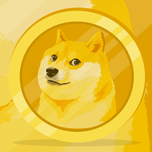
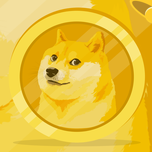
Add moon

Changed region(s): [[0.8421, 0.0, 1.0, 0.1579]]

diff --git a/_site/howtorun.html b/_site/howtorun.html
@@ -25,13 +25,24 @@
   <link href='https://fonts.googleapis.com/css?family=Open+Sans:400,700' rel='stylesheet' type='text/css'>
   <link rel="stylesheet" href="/assets/css/style.css?v=">
   <link rel="apple-touch-icon-precomposed" href="152.png">
+    <!-- Global site tag (gtag.js) - Google Analytics -->
+  
+  <script async src="https://www.googletagmanager.com/gtag/js?id=G-CPMKD94RX9"></script>
+  <script>
+    window.dataLayer = window.dataLayer || [];
+    function gtag(){dataLayer.push(arguments);}
+    gtag('js', new Date());
+
+    gtag('config', 'G-CPMKD94RX9');
+  </script>
+
   <script src="https://cdnjs.cloudflare.com/ajax/libs/jquery/3.5.1/jquery.min.js"></script>
   <script type="text/javascript">
 
     var TOTALDOGE = 1
     var CURRENCY = "USD";
     var UNIT = "$";
-    var DOGEPRICE = 0.0
+    var DOGEPRICE = 0
     var CURRENTLIST = ["USD","EUR","GBP","KRW","CNY","JPY"]
     var CURRENCYUNIT = ["$","€","£","₩","¥","¥"]
     //https://api.coingecko.com/api/v3/simple/supported_vs_currencies
@@ -62,7 +73,7 @@
 
 
     $("#selectList").change( function() {
-      var promptForDoge = prompt("How much Dogecoin?", "1");
+      var promptForDoge = prompt("How much Dogecoin?", TOTALDOGE);
 
       if ( promptForDoge == null ||  promptForDoge == "") {
         txt = "User cancelled the prompt.";
@@ -254,7 +265,7 @@ body {margin:0;padding:0;}
       <a href="/" >
      <img src="/assets/img/dogebell-title.png" width="70%" height="50%" style="max-width: 500px;">
       </a>
-     <br>
+
      <h3><span id="dogeCount">1</span> Dogecoin = <span id="unit">$</span> <span id="dogePrice"></span> </h3> 
      <br>
     
@@ -266,8 +277,6 @@ body {margin:0;padding:0;}
      <br>
 
    </div>
-
-
 
    <div class="box">
     <div class="dojichart" id="my-dojichart">
@@ -292,25 +301,17 @@ body {margin:0;padding:0;}
 
     <div>
       <span style="">Donate Doge : </span>
-      <a href="https://dogechain.info/address/DN7WNoyLx6DRoQpuzpcLhV95vLARFdbZ9A" >
+      <a href="https://dogechain.info/address/DN7WNoyLx6DRoQpuzpcLhV95vLARFdbZ9A" target='_blank' >
         <img style="vertical-align:middle" src="/assets/img/dogeaccept.png" width="80px" height="auto">
       </a>
-    </div>
-
-<!--     <div>
-      <span style="">Buy Doge : </span>
-      <a href="https://www.paypal.me/dogebell">
-        <img style="vertical-align:middle" src="/assets/img/paypal.png" width="80px" height="auto">
+      <a href="https://www.paypal.me/dogebell" target='_blank'>
+        <img style="vertical-align:middle" src="/assets/img/paypal.png" width="70px" height="auto">
       </a>
-    </div> -->
+    </div>
 
   </center>
 
 </footer>
-
-
-
-
 
 </body>
 </html>

diff --git a/_site/index.html b/_site/index.html
@@ -25,13 +25,24 @@
   <link href='https://fonts.googleapis.com/css?family=Open+Sans:400,700' rel='stylesheet' type='text/css'>
   <link rel="stylesheet" href="/assets/css/style.css?v=">
   <link rel="apple-touch-icon-precomposed" href="152.png">
+    <!-- Global site tag (gtag.js) - Google Analytics -->
+  
+  <script async src="https://www.googletagmanager.com/gtag/js?id=G-CPMKD94RX9"></script>
+  <script>
+    window.dataLayer = window.dataLayer || [];
+    function gtag(){dataLayer.push(arguments);}
+    gtag('js', new Date());
+
+    gtag('config', 'G-CPMKD94RX9');
+  </script>
+
   <script src="https://cdnjs.cloudflare.com/ajax/libs/jquery/3.5.1/jquery.min.js"></script>
   <script type="text/javascript">
 
     var TOTALDOGE = 1
     var CURRENCY = "USD";
     var UNIT = "$";
-    var DOGEPRICE = 0.0
+    var DOGEPRICE = 0
     var CURRENTLIST = ["USD","EUR","GBP","KRW","CNY","JPY"]
     var CURRENCYUNIT = ["$","€","£","₩","¥","¥"]
     //https://api.coingecko.com/api/v3/simple/supported_vs_currencies
@@ -62,7 +73,7 @@
 
 
     $("#selectList").change( function() {
-      var promptForDoge = prompt("How much Dogecoin?", "1");
+      var promptForDoge = prompt("How much Dogecoin?", TOTALDOGE);
 
       if ( promptForDoge == null ||  promptForDoge == "") {
         txt = "User cancelled the prompt.";
@@ -254,7 +265,7 @@ body {margin:0;padding:0;}
       <a href="/" >
      <img src="/assets/img/dogebell-title.png" width="70%" height="50%" style="max-width: 500px;">
       </a>
-     <br>
+
      <h3><span id="dogeCount">1</span> Dogecoin = <span id="unit">$</span> <span id="dogePrice"></span> </h3> 
      <br>
     
@@ -266,8 +277,6 @@ body {margin:0;padding:0;}
      <br>
 
    </div>
-
-
 
    <div class="box">
     <div class="dojichart" id="my-dojichart">
@@ -292,25 +301,17 @@ body {margin:0;padding:0;}
 
     <div>
       <span style="">Donate Doge : </span>
-      <a href="https://dogechain.info/address/DN7WNoyLx6DRoQpuzpcLhV95vLARFdbZ9A" >
+      <a href="https://dogechain.info/address/DN7WNoyLx6DRoQpuzpcLhV95vLARFdbZ9A" target='_blank' >
         <img style="vertical-align:middle" src="/assets/img/dogeaccept.png" width="80px" height="auto">
       </a>
-    </div>
-
-<!--     <div>
-      <span style="">Buy Doge : </span>
-      <a href="https://www.paypal.me/dogebell">
-        <img style="vertical-align:middle" src="/assets/img/paypal.png" width="80px" height="auto">
+      <a href="https://www.paypal.me/dogebell" target='_blank'>
+        <img style="vertical-align:middle" src="/assets/img/paypal.png" width="70px" height="auto">
       </a>
-    </div> -->
+    </div>
 
   </center>
 
 </footer>
-
-
-
-
 
 </body>
 </html>

diff --git a/_layouts/default.html b/_layouts/default.html
@@ -29,7 +29,7 @@
     var TOTALDOGE = 1
     var CURRENCY = "USD";
     var UNIT = "$";
-    var DOGEPRICE = 0.0
+    var DOGEPRICE = 0
     var CURRENTLIST = ["USD","EUR","GBP","KRW","CNY","JPY"]
     var CURRENCYUNIT = ["$","€","£","₩","¥","¥"]
     //https://api.coingecko.com/api/v3/simple/supported_vs_currencies
@@ -60,7 +60,7 @@
 
 
     $("#selectList").change( function() {
-      var promptForDoge = prompt("How much Dogecoin?", "1");
+      var promptForDoge = prompt("How much Dogecoin?", TOTALDOGE);
 
       if ( promptForDoge == null ||  promptForDoge == "") {
         txt = "User cancelled the prompt.";
@@ -252,7 +252,7 @@ body {margin:0;padding:0;}
       <a href="/" >
      <img src="/assets/img/dogebell-title.png" width="70%" height="50%" style="max-width: 500px;">
       </a>
-     <br>
+
      <h3><span id="dogeCount">1</span> Dogecoin = <span id="unit">$</span> <span id="dogePrice"></span> </h3> 
      <br>
     
@@ -264,8 +264,6 @@ body {margin:0;padding:0;}
      <br>
 
    </div>
-
-
 
    <div class="box">
     <div class="dojichart" id="my-dojichart">
@@ -290,17 +288,13 @@ body {margin:0;padding:0;}
 
     <div>
       <span style="">Donate Doge : </span>
-      <a href="https://dogechain.info/address/DN7WNoyLx6DRoQpuzpcLhV95vLARFdbZ9A" >
+      <a href="https://dogechain.info/address/DN7WNoyLx6DRoQpuzpcLhV95vLARFdbZ9A" target='_blank' >
         <img style="vertical-align:middle" src="/assets/img/dogeaccept.png" width="80px" height="auto">
       </a>
-    </div>
-
-<!--     <div>
-      <span style="">Buy Doge : </span>
-      <a href="https://www.paypal.me/dogebell">
-        <img style="vertical-align:middle" src="/assets/img/paypal.png" width="80px" height="auto">
+      <a href="https://www.paypal.me/dogebell" target='_blank'>
+        <img style="vertical-align:middle" src="/assets/img/paypal.png" width="70px" height="auto">
       </a>
-    </div> -->
+    </div>
 
   </center>
 
